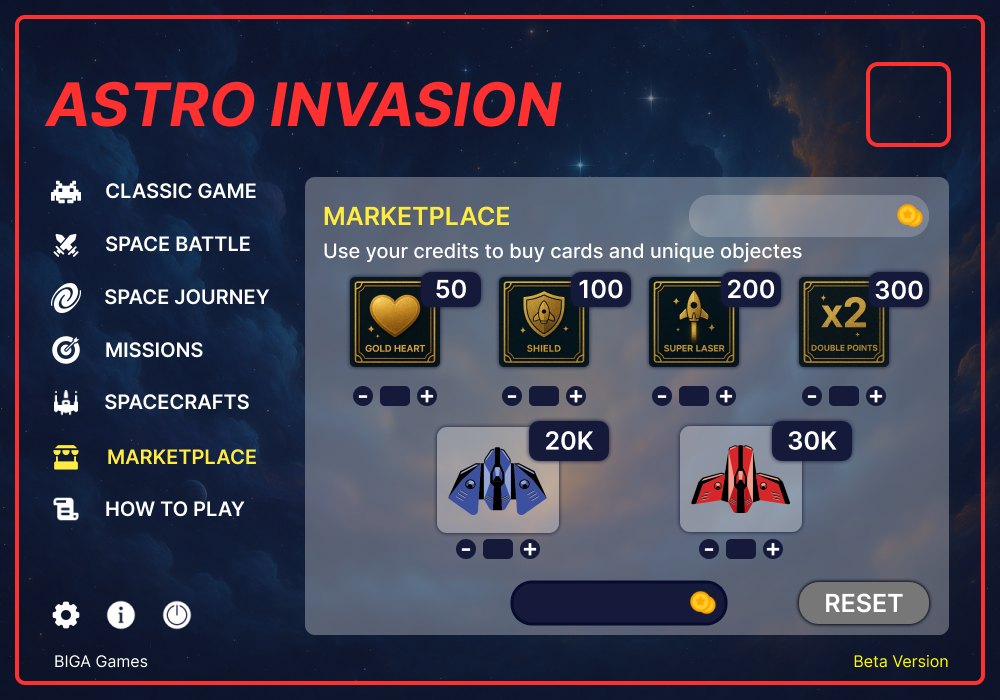
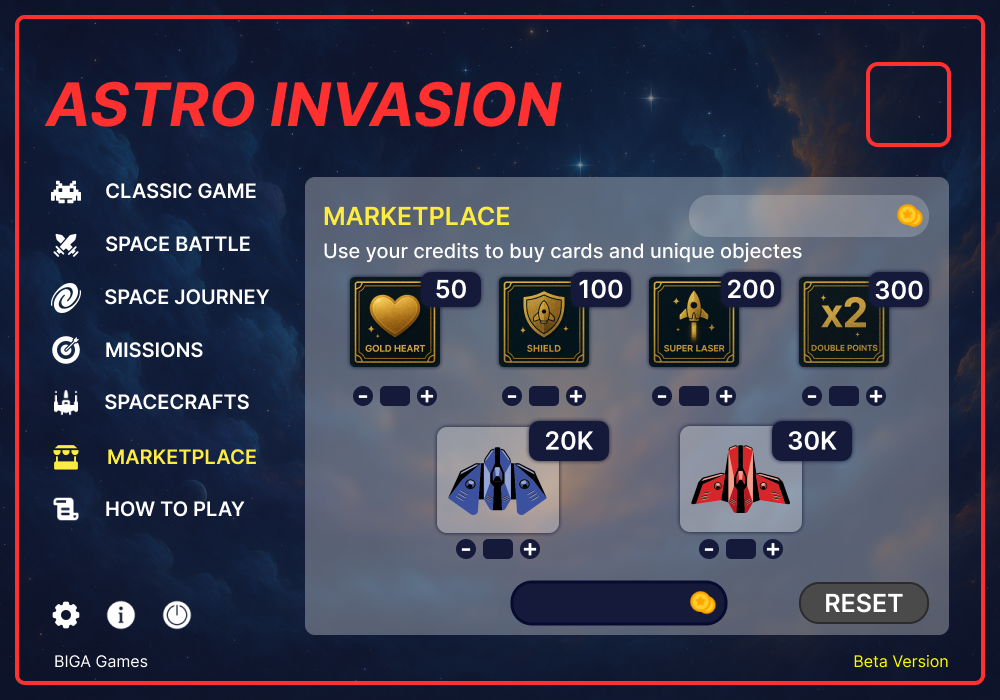
lavoro 10/06/2025 - luca

Changed region(s): [[0.775, 0.81, 0.93, 0.9]]

diff --git a/core/src/codes/sorgente/GameMods/SpaceBattle.java b/core/src/codes/sorgente/GameMods/SpaceBattle.java
@@ -16,6 +16,7 @@ import sorgente.Main;
 import sorgente.Lobby.InputManager;
 import sorgente.SoundManager;
 
+import javax.xml.crypto.Data;
 import java.util.Iterator;
 import java.util.Random;
 
@@ -441,6 +442,9 @@ public class SpaceBattle implements Screen, InputProcessor {
         // diminuzione carte speciali
         if (goldHeart && !selectedSp.getName().equals("Alpha")) DataUserManager.setProgress("num_gold_heart", (int) DataUserManager.getProgress("num_gold_heart")-1);
         if (superLaser && !selectedSp.getName().equals("Rorik")) DataUserManager.setProgress("num_super_laser", (int) DataUserManager.getProgress("num_super_laser")-1);
+
+        // aggiornamento partite giocate
+        DataUserManager.setProgress("matches_SB", (int) DataUserManager.getProgress("matches_SB")+1);
 
         int[] stats = {0, 0, 0};
         game.setScreen(new GameOver(game, selectedSp, 1, stats, win, isLevel));

diff --git a/core/src/codes/sorgente/Lobby/UIManager.java b/core/src/codes/sorgente/Lobby/UIManager.java
@@ -716,7 +716,7 @@ public class UIManager implements ResourceLoader {
 
                 // button confirm-purchase and reset hover
                 if (InputManager.isBtnBuyHover) screen.draw(buttonsOver[4], 510, 74);
-                if (InputManager.isBtnResetHover) screen.draw(buttonsOver[5], 791, 68);
+                if (InputManager.isBtnResetHover) screen.draw(buttonsOver[5], 799, 76);
 
                 // prezzo finale
                 fontBoldWhite25.draw(screen, formatter.format(InputManager.finalPrize), 530, 108); // prezzo d'acquisto finale

diff --git a/core/src/codes/sorgente/GameMods/SpaceJourney/SpaceJourney.java b/core/src/codes/sorgente/GameMods/SpaceJourney/SpaceJourney.java
@@ -131,11 +131,11 @@ public class SpaceJourney implements Screen, InputProcessor {
 
         // click su un livello => il for è solo per i 10 livelli della galassia aperta e se ci si trova in una galassia
         if (numGalaxy > 0) {
-            int startX = 50;
+            int startX = 42;
             int startY = 278;
             int spacingX = 205;
             int spacingY = 224;
-            int levelSize = 80;
+            int levelSize = 78;
 
             List<Level> levels = galaxies.get(numGalaxy - 1).getLevels();
 
